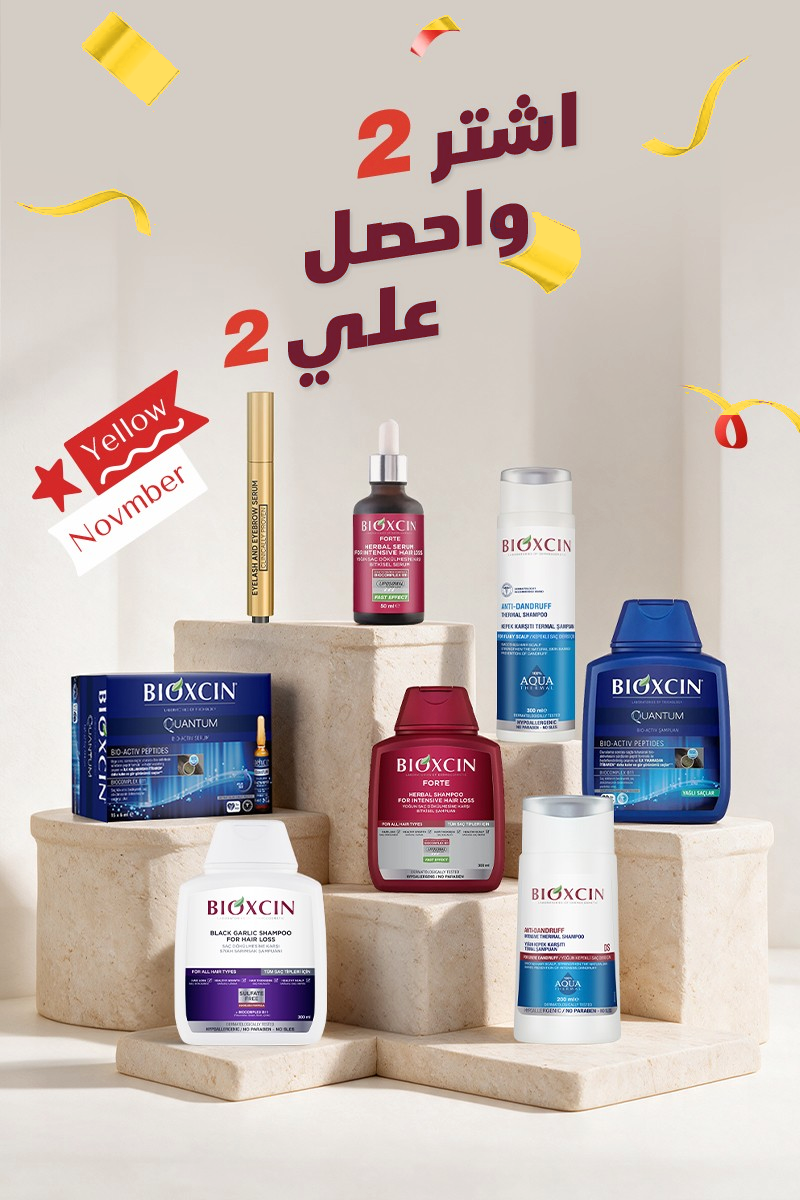
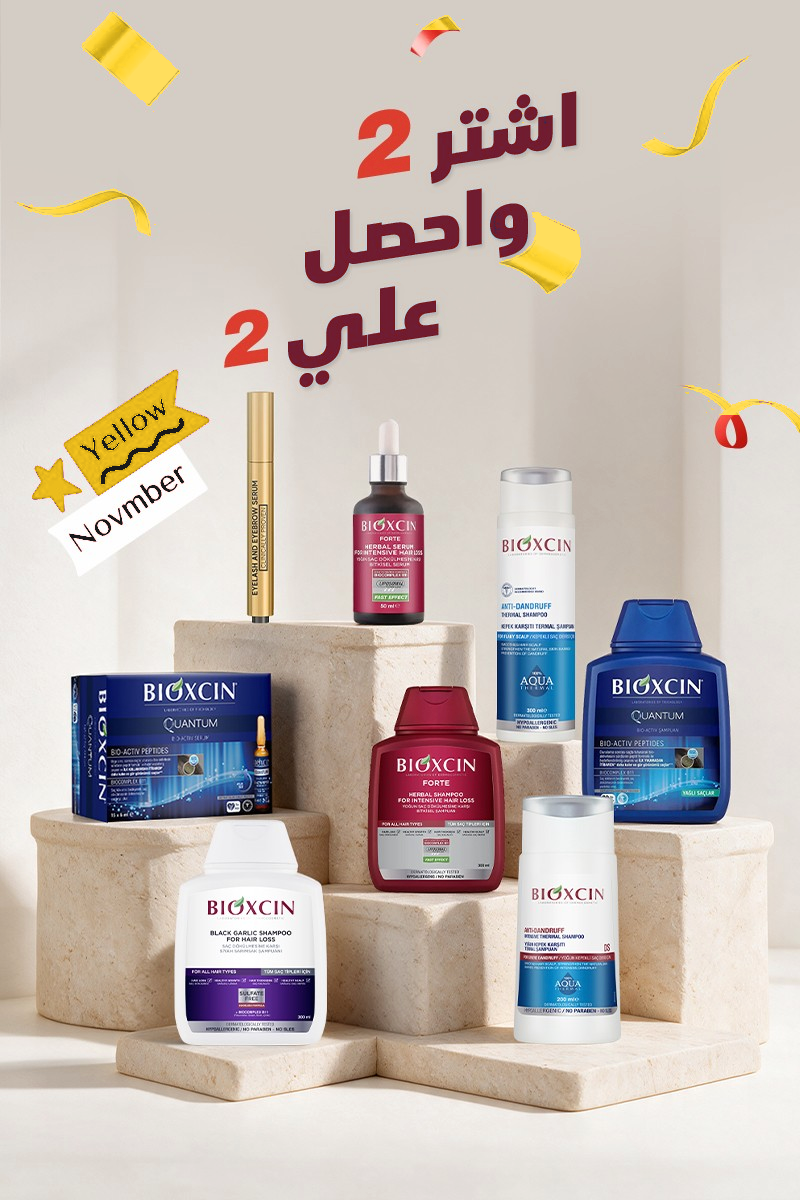
Offer 2 vertical: Yellow Novmber sticker recoloured yellow with dark lettering
Claude-Session: https://claude.ai/code/session_01MejyVmSq2aYVYmituLqweB

Changed region(s): [[0.0312, 0.3083, 0.25, 0.4625]]

diff --git a/banners/recolor-offer2.py b/banners/recolor-offer2.py
@@ -51,3 +51,34 @@ for n, (name, (tx0, ty0, tx1, ty1), prot) in JOBS.items():
     hsvf[..., 1][keep] = np.clip(np.maximum(s[keep], 170) * 0.95, 0, 255)
     hsvf[..., 2][keep] = np.clip(v[keep] * 1.1 + 10, 0, 255)
     Image.fromarray(cv2.cvtColor(hsvf, cv2.COLOR_HSV2RGB)).save(f"output/offer-2-final/{name}.png")
+
+# --- vertical banner: the red "Yellow Novmber" sticker -> yellow ribbon/star with dark lettering
+def sticker_to_yellow(path, box):
+    im = np.asarray(Image.open(path).convert("RGB")).copy()
+    x0, y0, x1, y1 = box
+    reg = im[y0:y1, x0:x1]
+    hsv = cv2.cvtColor(reg, cv2.COLOR_RGB2HSV).astype(int)
+    red = (((hsv[..., 0] < 10) | (hsv[..., 0] > 170)) & (hsv[..., 1] > 90) & (hsv[..., 2] > 80)).astype(np.uint8)
+    nl, lab, st, _ = cv2.connectedComponentsWithStats(red, 8)
+    big = np.zeros(red.shape, np.uint8); small = np.zeros(red.shape, bool)
+    for i in range(1, nl):
+        if st[i, cv2.CC_STAT_AREA] > 400: big[lab == i] = 1
+        elif st[i, cv2.CC_STAT_AREA] > 4: small |= lab == i
+    # white letters inside the red ribbon = holes in the ribbon mask
+    filled = big.copy(); cnts, _ = cv2.findContours(big, cv2.RETR_EXTERNAL, cv2.CHAIN_APPROX_SIMPLE)
+    cv2.drawContours(filled, cnts, -1, 1, -1)
+    holes = (filled > 0) & (big == 0)
+    yellow = np.array([245, 196, 30.]); ink = np.array([25, 25, 25.])
+    shade = (reg.astype(np.float32).max(2) / 255.0)[..., None]
+    out = reg.astype(np.float32)
+    out[big > 0] = (yellow * np.clip(shade * 1.15, 0.75, 1.05))[big > 0]
+    out[holes] = ink
+    out[small] = ink
+    # anti-aliased red fringes left on the letters -> blend toward ink
+    fr = ((hsv[..., 0] < 12) | (hsv[..., 0] > 165)) & (hsv[..., 1] > 35) & (big == 0) & ~holes & ~small
+    a = np.clip((hsv[..., 1] - 35) / 120.0, 0, 1)[..., None]
+    out[fr] = (out * (1 - a) + ink * a)[fr]
+    im[y0:y1, x0:x1] = out.clip(0, 255).astype(np.uint8)
+    Image.fromarray(im).save(path)
+
+sticker_to_yellow("output/offer-2-final/mobile-ar-800x1200.png", (25, 360, 220, 570))
